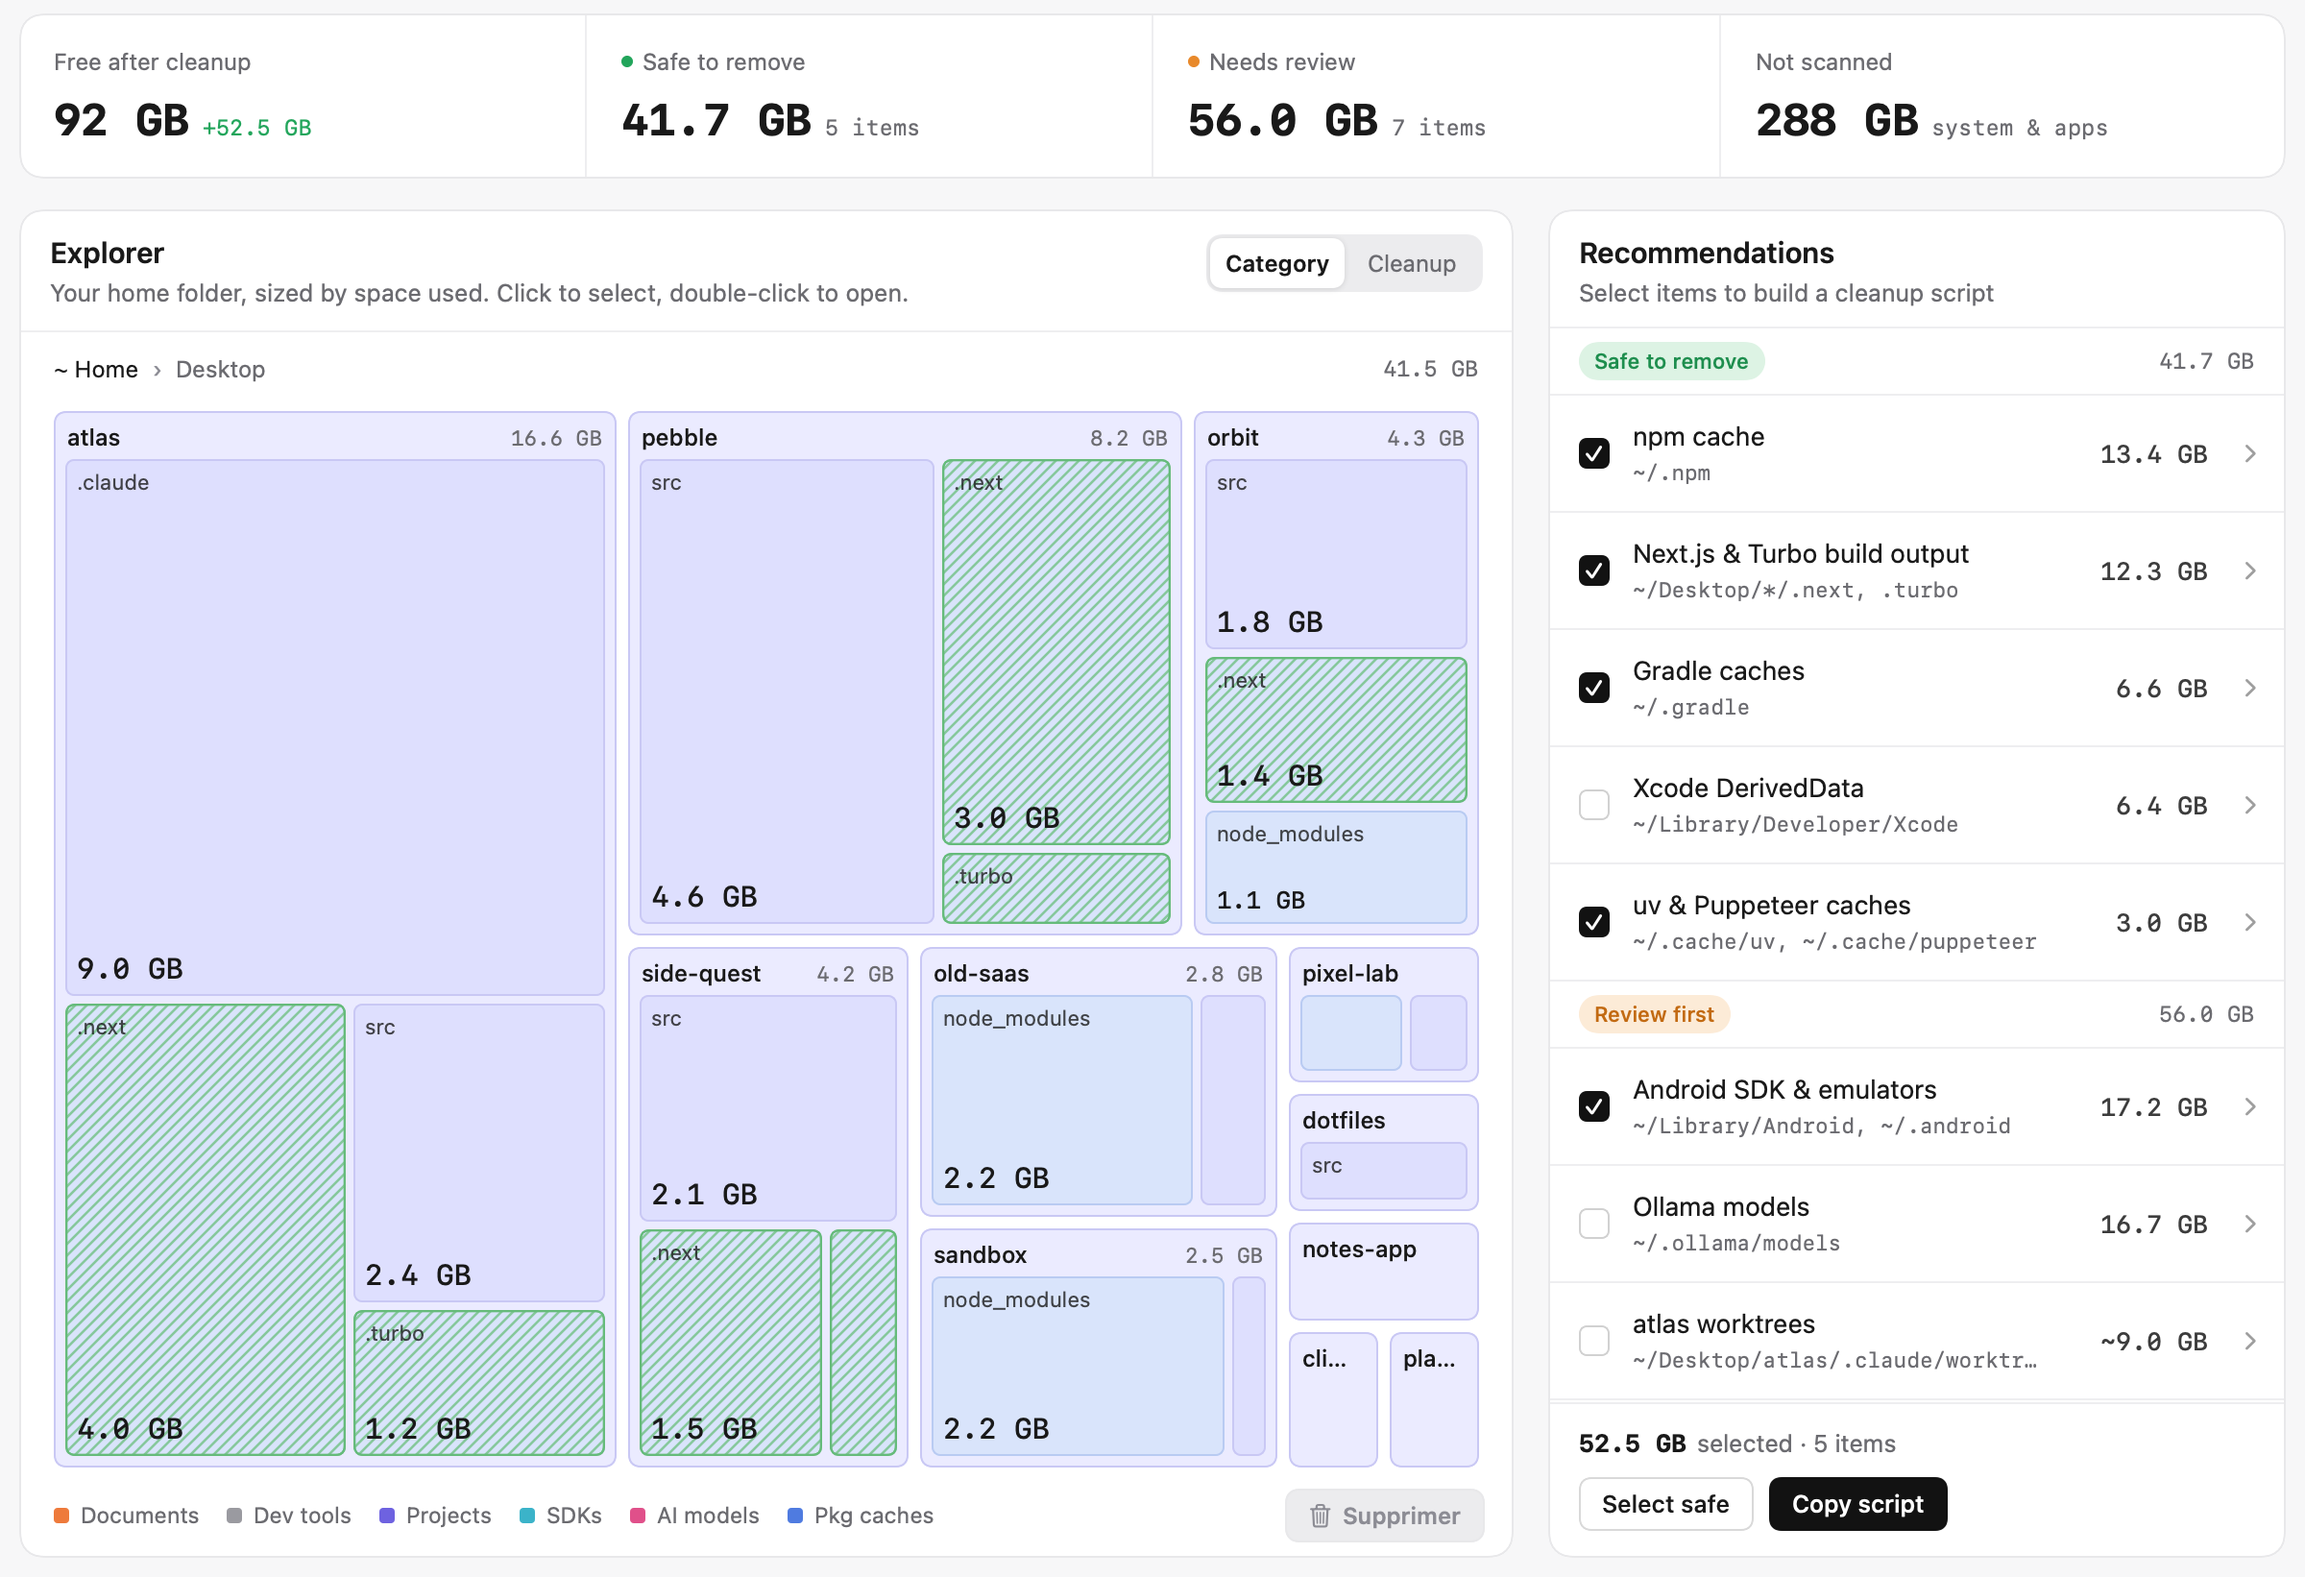
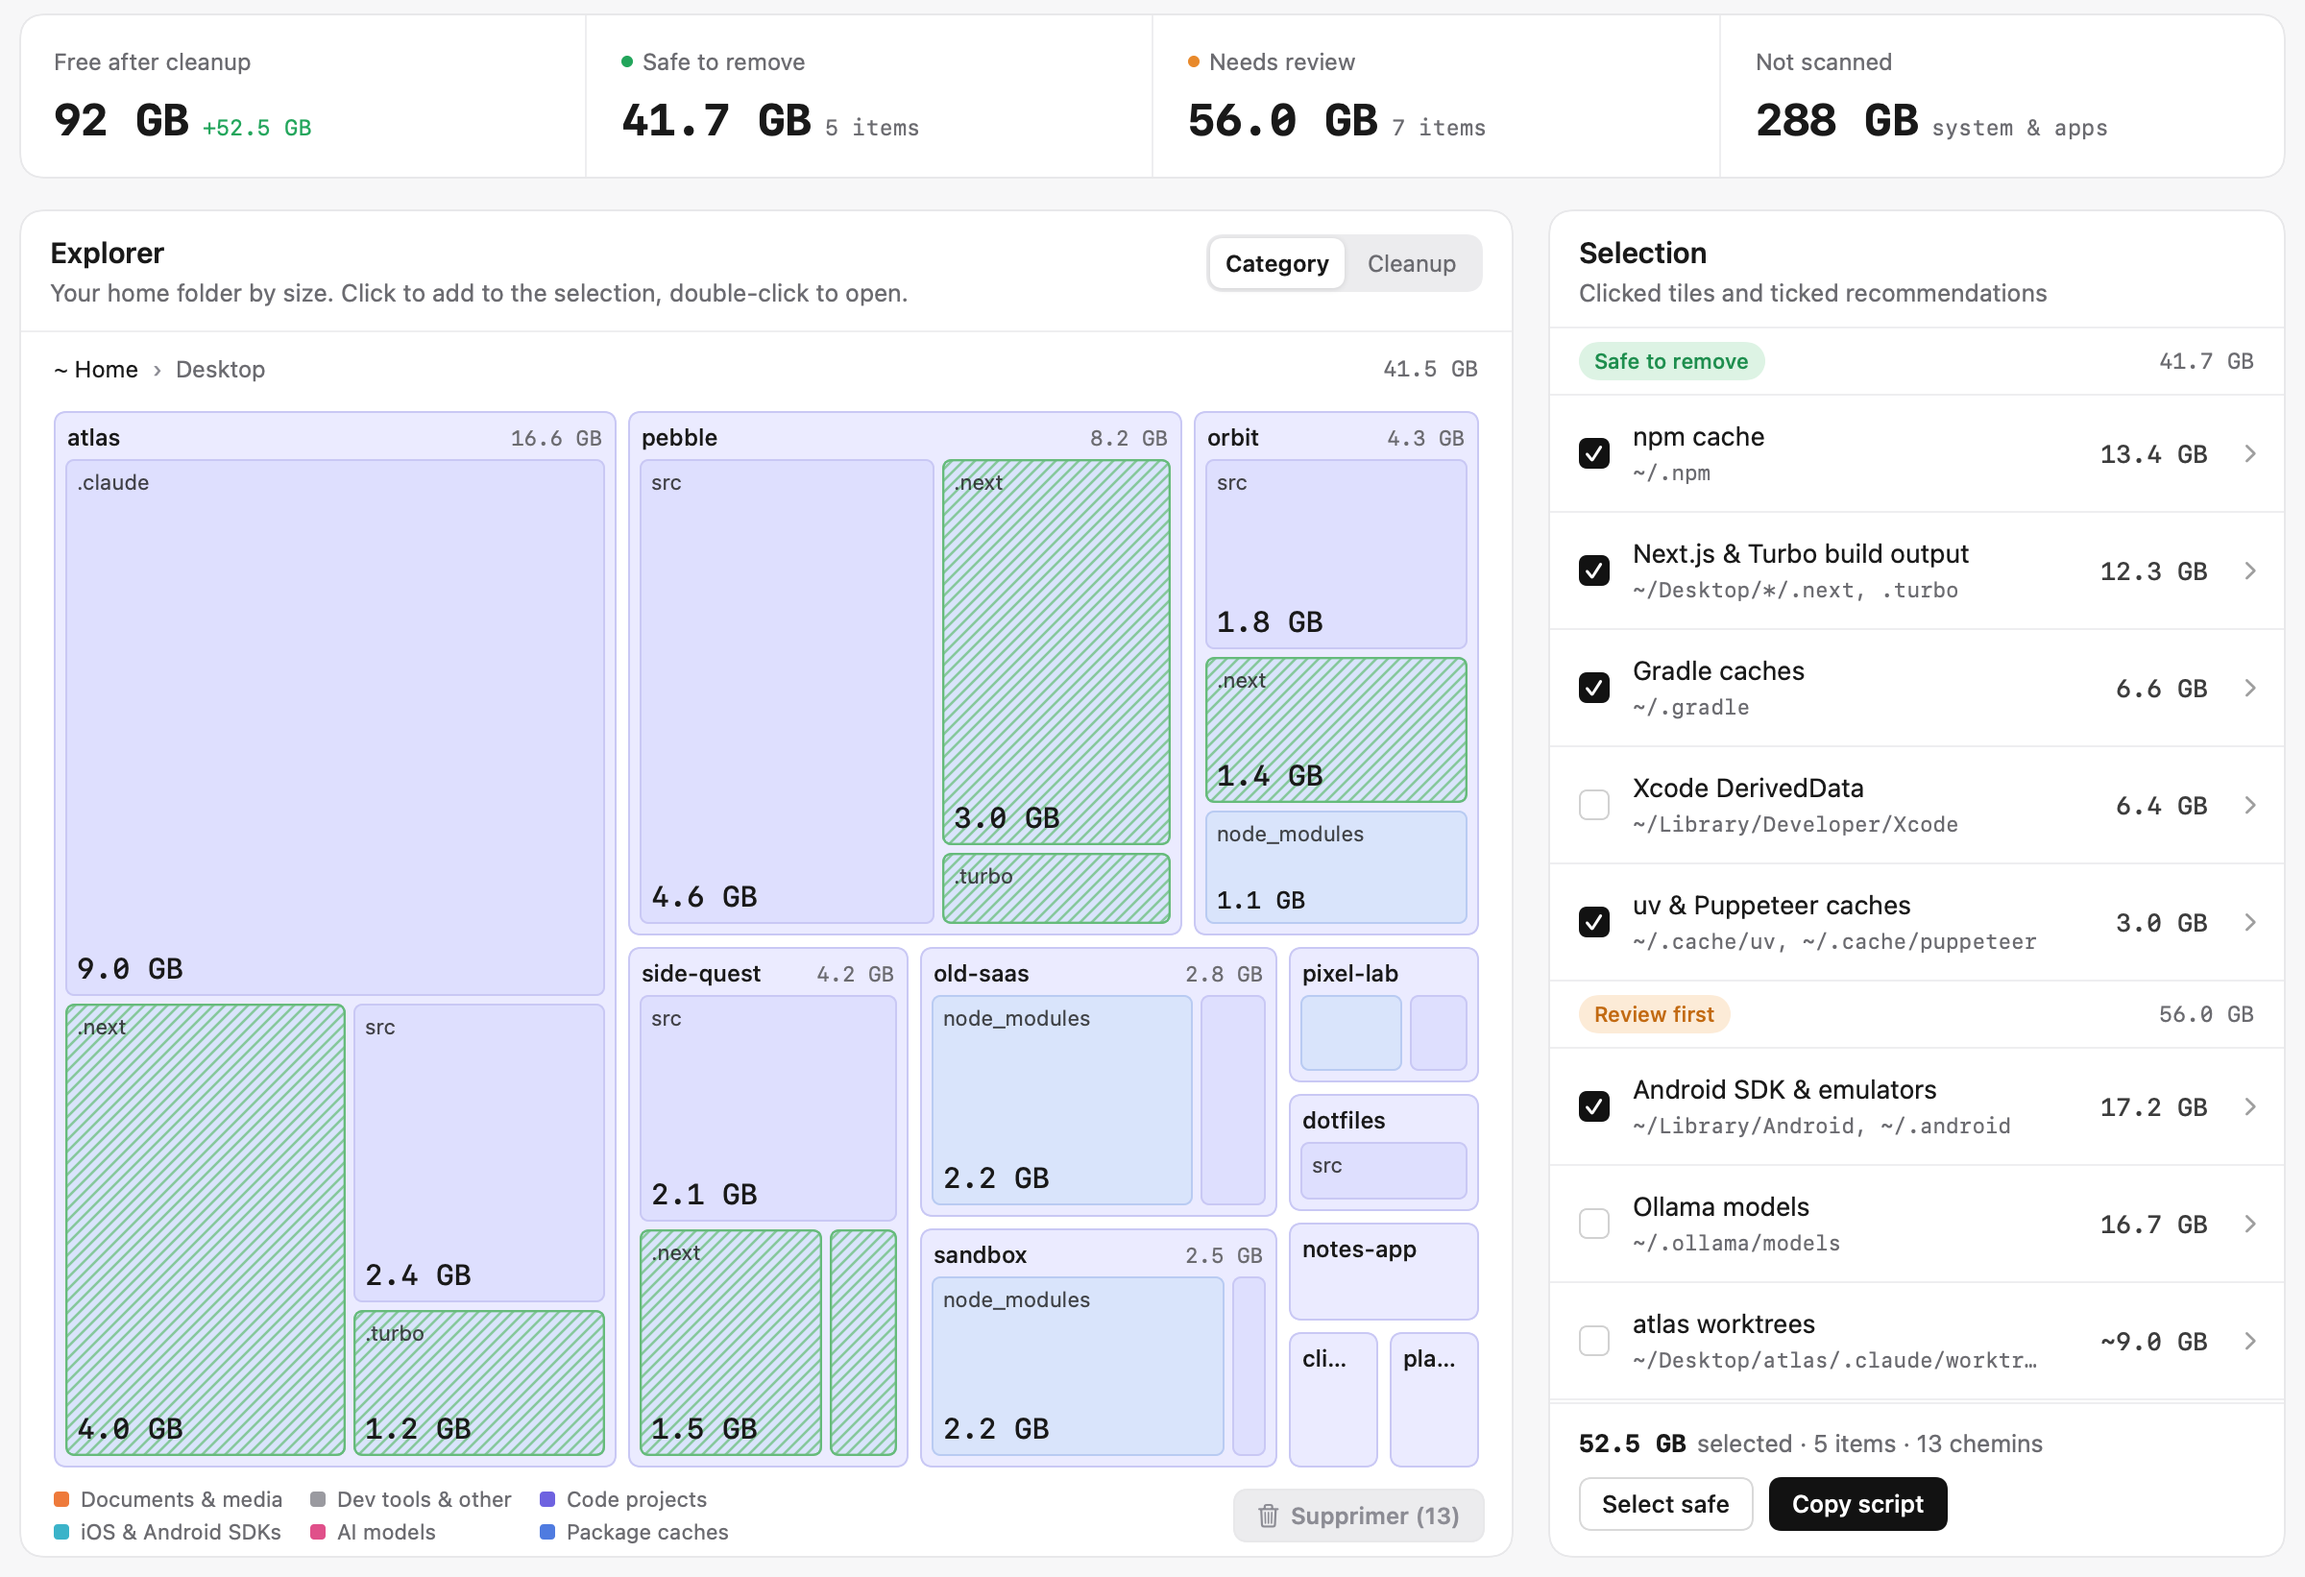
Release 1.2.1: version bump in CI (by Antigravity, Gemini 3.8 Flash high), docs, screenshots

diff --git a/README.md b/README.md
@@ -12,15 +12,19 @@
 
 ![Zoom Desktop](docs/screenshots/explorer-desktop.png)
 
-*Sélection multiple : plusieurs tuiles cliquées (contour bleu) apparaissent en tête du panneau de droite, avec les recommandations cochées, et le bouton **Supprimer (N)** est en bas à droite :*
+*Sélection multiple : plusieurs tuiles cliquées (contour bleu) apparaissent en tête du panneau de droite, avec les recommandations cochées. Une tuile sélectionnée mais non dessinée à ce niveau est signalée par un contour pointillé et un badge sur son dossier. Le bouton **Supprimer (N)** compte les chemins réels mis à la Corbeille :*
 
 ![Sélection multiple](docs/screenshots/explorer-selected.png)
+
+*La même sélection vue dans Desktop :*
+
+![Sélection dans Desktop](docs/screenshots/explorer-selected-desktop.png)
 
 *Confirmation groupée avant la mise à la Corbeille :*
 
 ![Confirmation groupée](docs/screenshots/explorer-confirm.png)
 
-*Animation de zoom au double‑clic (image intermédiaire) :*
+*Animation de zoom au double‑clic (image intermédiaire : la tuile grandit en affichant déjà ses sous‑tuiles) :*
 
 ![Zoom](docs/screenshots/explorer-zoom.png)
 
@@ -33,13 +37,13 @@
 ## Téléchargement
 
 - Dernière version : <https://github.com/pierreburnn/mac-disk-cleaner/releases/latest>
-- Lien direct v1.2.0 : [DiskCleaner-1.2.0.dmg](https://github.com/pierreburnn/mac-disk-cleaner/releases/download/v1.2.0/DiskCleaner-1.2.0.dmg)
+- Lien direct v1.2.1 : [DiskCleaner-1.2.1.dmg](https://github.com/pierreburnn/mac-disk-cleaner/releases/download/v1.2.1/DiskCleaner-1.2.1.dmg)
 
 Compatible macOS 13 Ventura et plus récent, Mac Apple Silicon **et** Intel (binaire universel).
 
 ## Installation
 
-1. Téléchargez le fichier `DiskCleaner-1.2.0.dmg`.
+1. Téléchargez le fichier `DiskCleaner-1.2.1.dmg`.
 2. Ouvrez‑le, puis glissez **Disk Cleaner** sur le raccourci **Applications**.
 3. Éjectez le disque image.
 

diff --git a/docs/RELEASE_NOTES.md b/docs/RELEASE_NOTES.md
@@ -1,4 +1,13 @@
-## Disk Cleaner 1.2.0
+## Disk Cleaner 1.2.1
+
+Corrections après relecture de la 1.2.0 :
+
+- **Zoom** : pendant l'animation, la tuile qui grandit affiche déjà ses sous‑tuiles à l'échelle (plus de rectangle vide). À la fin du zoom, la treemap occupe toute la zone de l'Explorer. L'animation inverse par le fil d'Ariane fonctionne de la même manière. Nouveaux tests de disposition et d'animation.
+- **Contours de sélection** : ils correspondent toujours au compteur. Une tuile sélectionnée trop petite pour afficher son nom a un contour de 3 pt et un léger fond bleu, et son nom apparaît au survol. Une sélection cachée dans un dossier réduit est signalée par un contour pointillé et un badge sur ce dossier, et le bandeau l'indique (« 1 dans un dossier réduit »).
+- **Confirmation** : les chemins s'affichent en `~/…`.
+- **Supprimer (N)** compte les chemins réels mis à la Corbeille, comme la confirmation. Le panneau affiche « N items · M chemins ».
+
+## Disk Cleaner 1.2.0 (rappel)
 
 Nouveautés demandées par Pierre :
 
